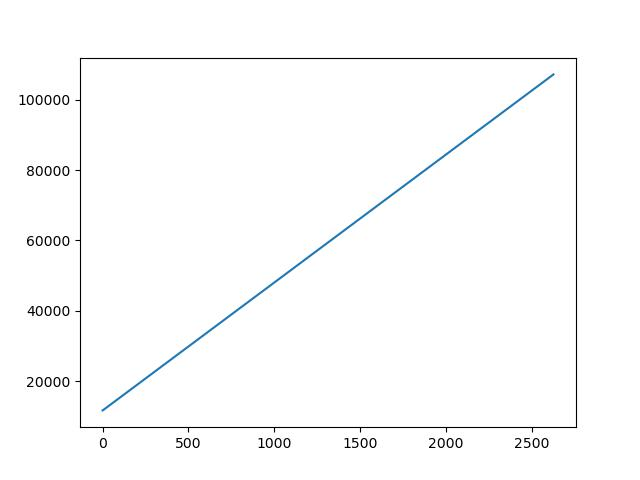
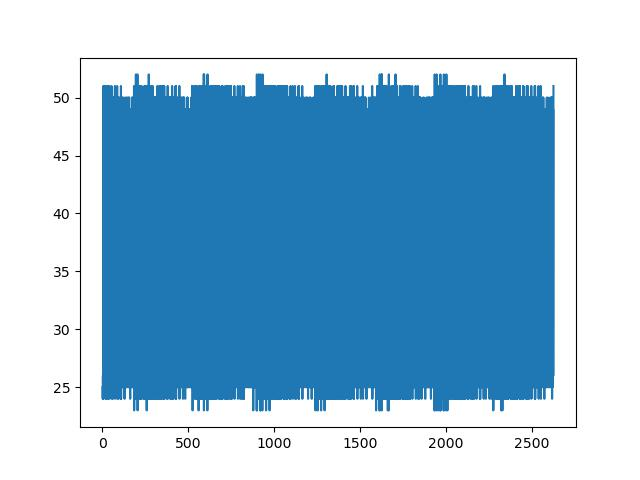
updated plots

diff --git a/plot_scripts/plot_acc.py b/plot_scripts/plot_acc.py
@@ -16,21 +16,32 @@ def calculate_time_ran(df):
     last = df['millis'].iloc[-1]
     print(f'{(last-first) / 1000} seconds')
 
-def calculate_logging_statistics(df):
+def compute_differences(df):
     df['difference'] = df['millis'].diff()
+    return df
+
+def calculate_logging_statistics(df):
+    df = compute_differences(df)
     print('log statisics')
     print(f'mean: {df["difference"].mean()}')
     print(f'variance: {df["difference"].var()}')
     print(f'max: {df["difference"].max()}')
     print(f'min: {df["difference"].min()}')
+    print(f'total time: {calculate_time_ran(df)}')
     try:
         print(f"log_interval: {df['LOG_INTERVAL'].iloc[0]}")
         print(f'sync interval {df["SYNC_INTERVAL"].iloc[0]}')
         print(f'sync_time {df["syncTime"].iloc[0]}')
     except Exception as e:
         print("intervals not found")
-
     print('\n')
+
+def plot_indexs_for_dir():
+    for file_ in os.listdir('data'):
+        df = read_file(file_)
+        df = compute_differences(df)
+        
+        # plot_index_interval(df, file_, 'difference')
 
 def compute_stats_of_all_files():
     for file_ in os.listdir('data'):
@@ -38,14 +49,15 @@ def compute_stats_of_all_files():
         df = read_file(file_)
         calculate_logging_statistics(df)
 
-def plot_index_interval(df, file_name):
+def plot_index_interval(df, file_name, column='millis'):
     fig, ax = plt.subplots()
-    df['millis'].plot(ax=ax)
+    df[column].plot(ax=ax)
     split_name = file_name.split('.')[0]
     plt.savefig(f'imgs/{split_name}.jpeg')
 
 if __name__ == '__main__':
     compute_stats_of_all_files()
+    plot_indexs_for_dir()
     # file_name = '10-30-56.csv'
     # plot = False
     # df = read_file(file_name)
